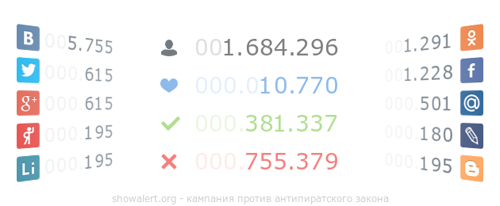
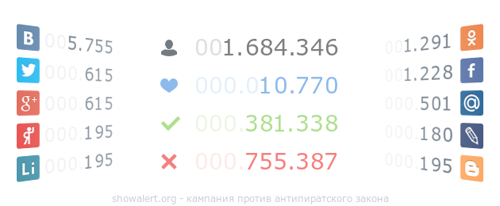
update statistics files for plugins

Changed region(s): [[0.6, 0.7282, 0.69, 0.8447], [0.6, 0.1748, 0.66, 0.2913], [0.63, 0.5534, 0.69, 0.6408]]

diff --git a/votes.js b/votes.js
@@ -1,1 +1,1 @@
-window.lk.votes(33025)
+window.lk.votes(33031)
